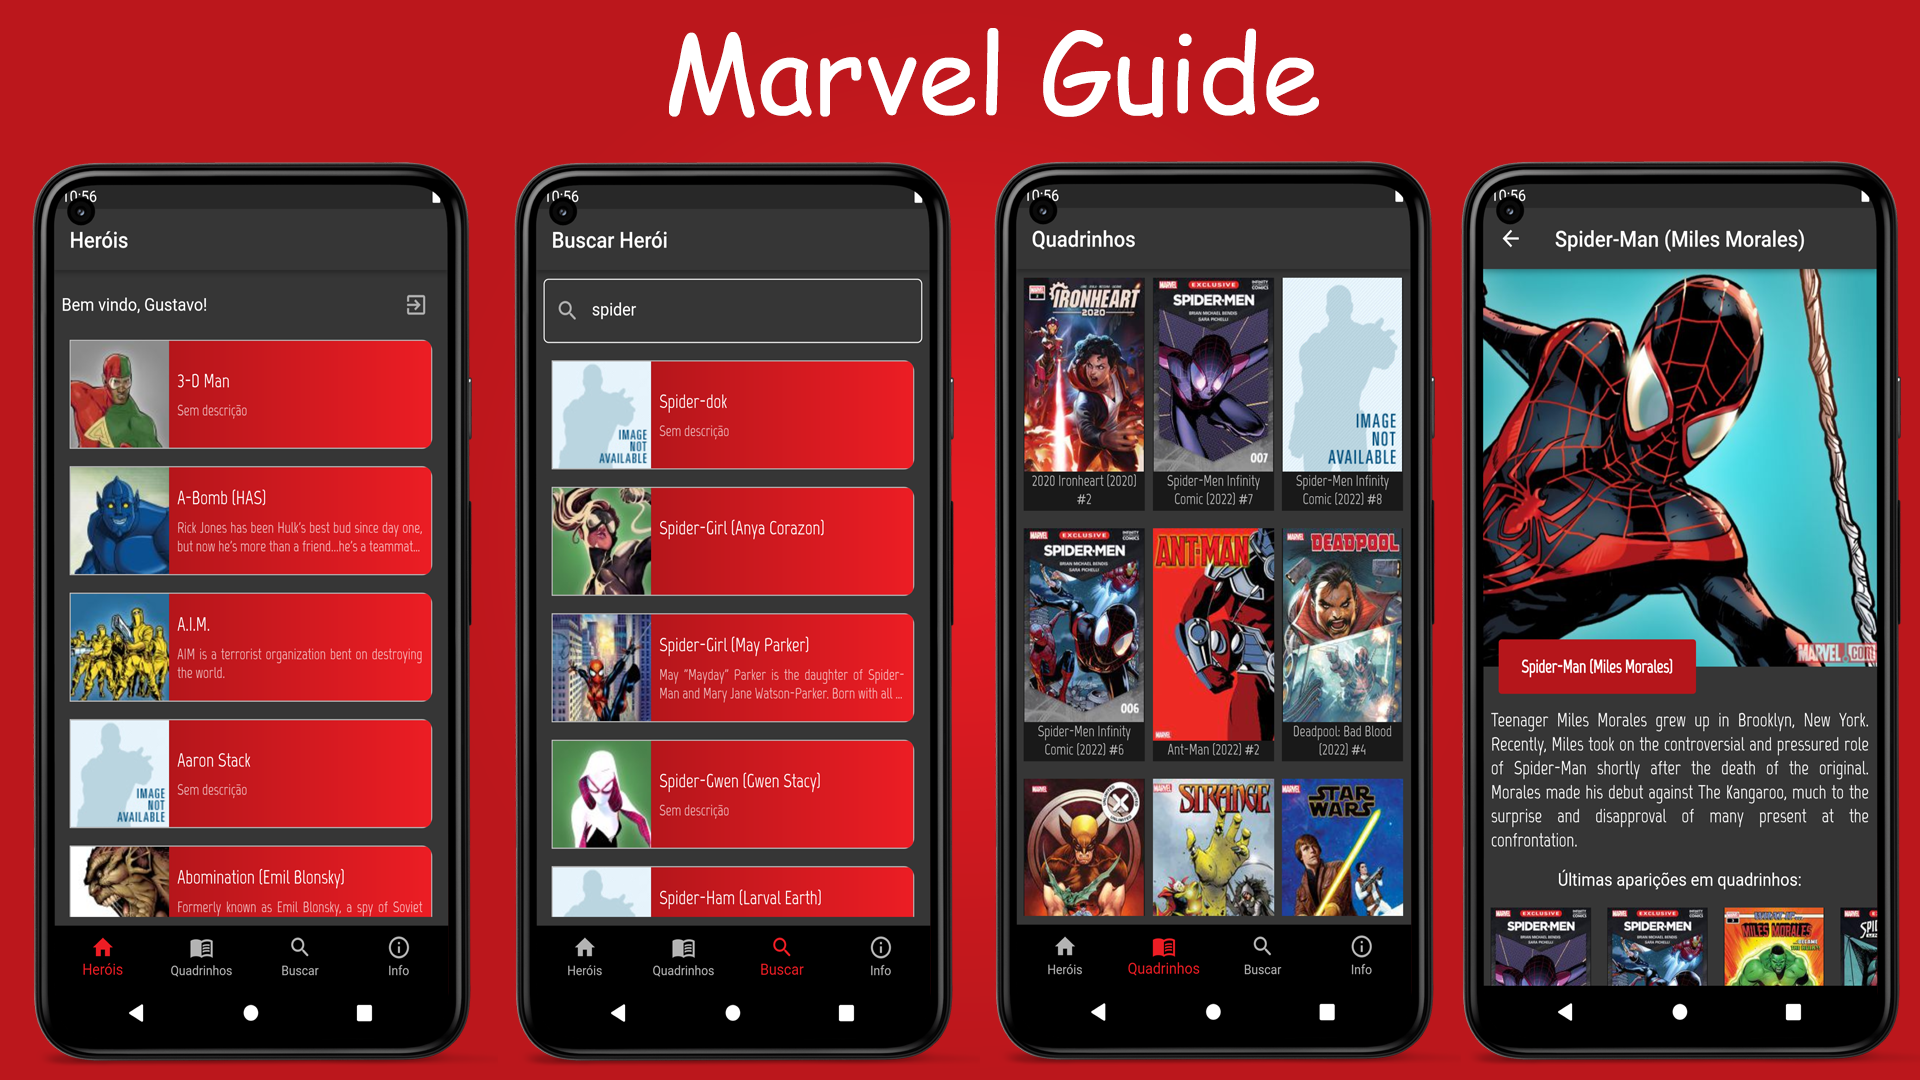
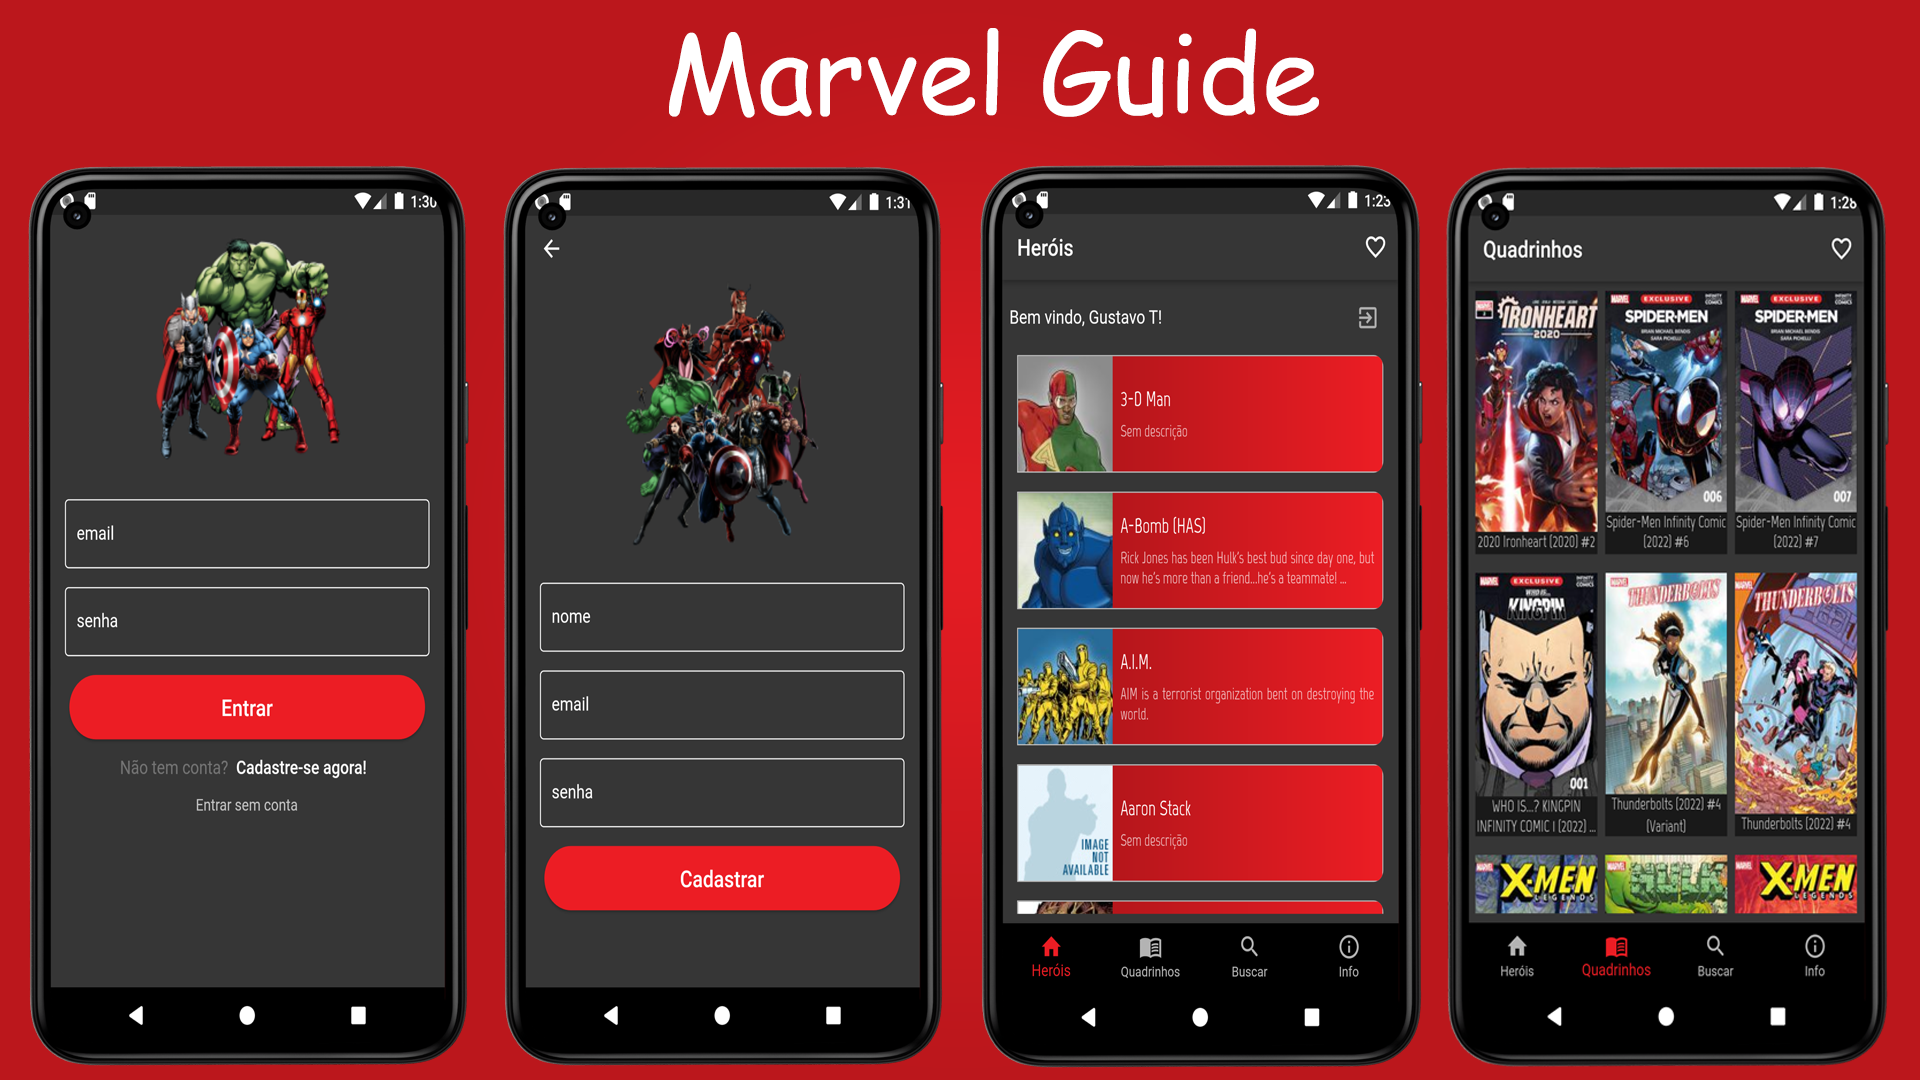
Readme update

diff --git a/lib/controller/login_controller.dart b/lib/controller/login_controller.dart
@@ -13,7 +13,7 @@ class LoginController {
 
   UserModel user = UserModel(name: '', email: '', password: '');
 
-  void userEmail(String? value) => user.email = value! ;
+  void userEmail(String? value) => user.email = value!;
   void userPassword(String? value) => user.password = value!;
 
   Future<String?> login() async {
@@ -25,7 +25,7 @@ class LoginController {
 
     try {
       return await repository.doLogin(user);
-    } catch(e) {
+    } catch (e) {
       return null;
     }
   }

diff --git a/README.md b/README.md
@@ -12,12 +12,14 @@ A Marvel Heroes and Comics guide, built with Flutter and MarvelAPI to help peopl
 
 ## :hammer_and_wrench: Features
 
+- [ ] Firebase Auth;
+- [ ] Firebase Firestore;
 - [ ] Infinite Scrolling;
 - [ ] Paginated Requests;
+- [ ] Rest API;
 - [ ] Form Validation;
 - [ ] Animations;
 - [ ] Loading Effects;
-- [ ] Authentication with LocalStorage;
 
 ## ✨ Technologies
 
@@ -26,10 +28,12 @@ A Marvel Heroes and Comics guide, built with Flutter and MarvelAPI to help peopl
 - [ ] LocalStorage
 - [ ] Http
 - [ ] MarvelAPI
+- [ ] MVC
 
 ## 🔖 Layout
 
 ![ilustration](.github/ilustration.png?style=flat)
+![ilustration2](.github/ilustration2.png?style=flat)
 
 ## 👨💻 Getting started
 
@@ -46,6 +50,15 @@ In order to consume the MarvelAPI, create an account on https://developer.marvel
 // marvel_api.dart
 static final publicKey = YOUR_PUBLIC_KEY;
 static final privateKey = YOUR_PRIVATE_KEY;
+```
+
+Setup a new firebase project with email and password authentication and firestore and paste the config in the config folder.
+
+```dart
+// config/firebase_options.dart
+class DefaultFirebaseOptions {
+  // Your config here  
+}
 ```
 
 ## 📄 Licence
